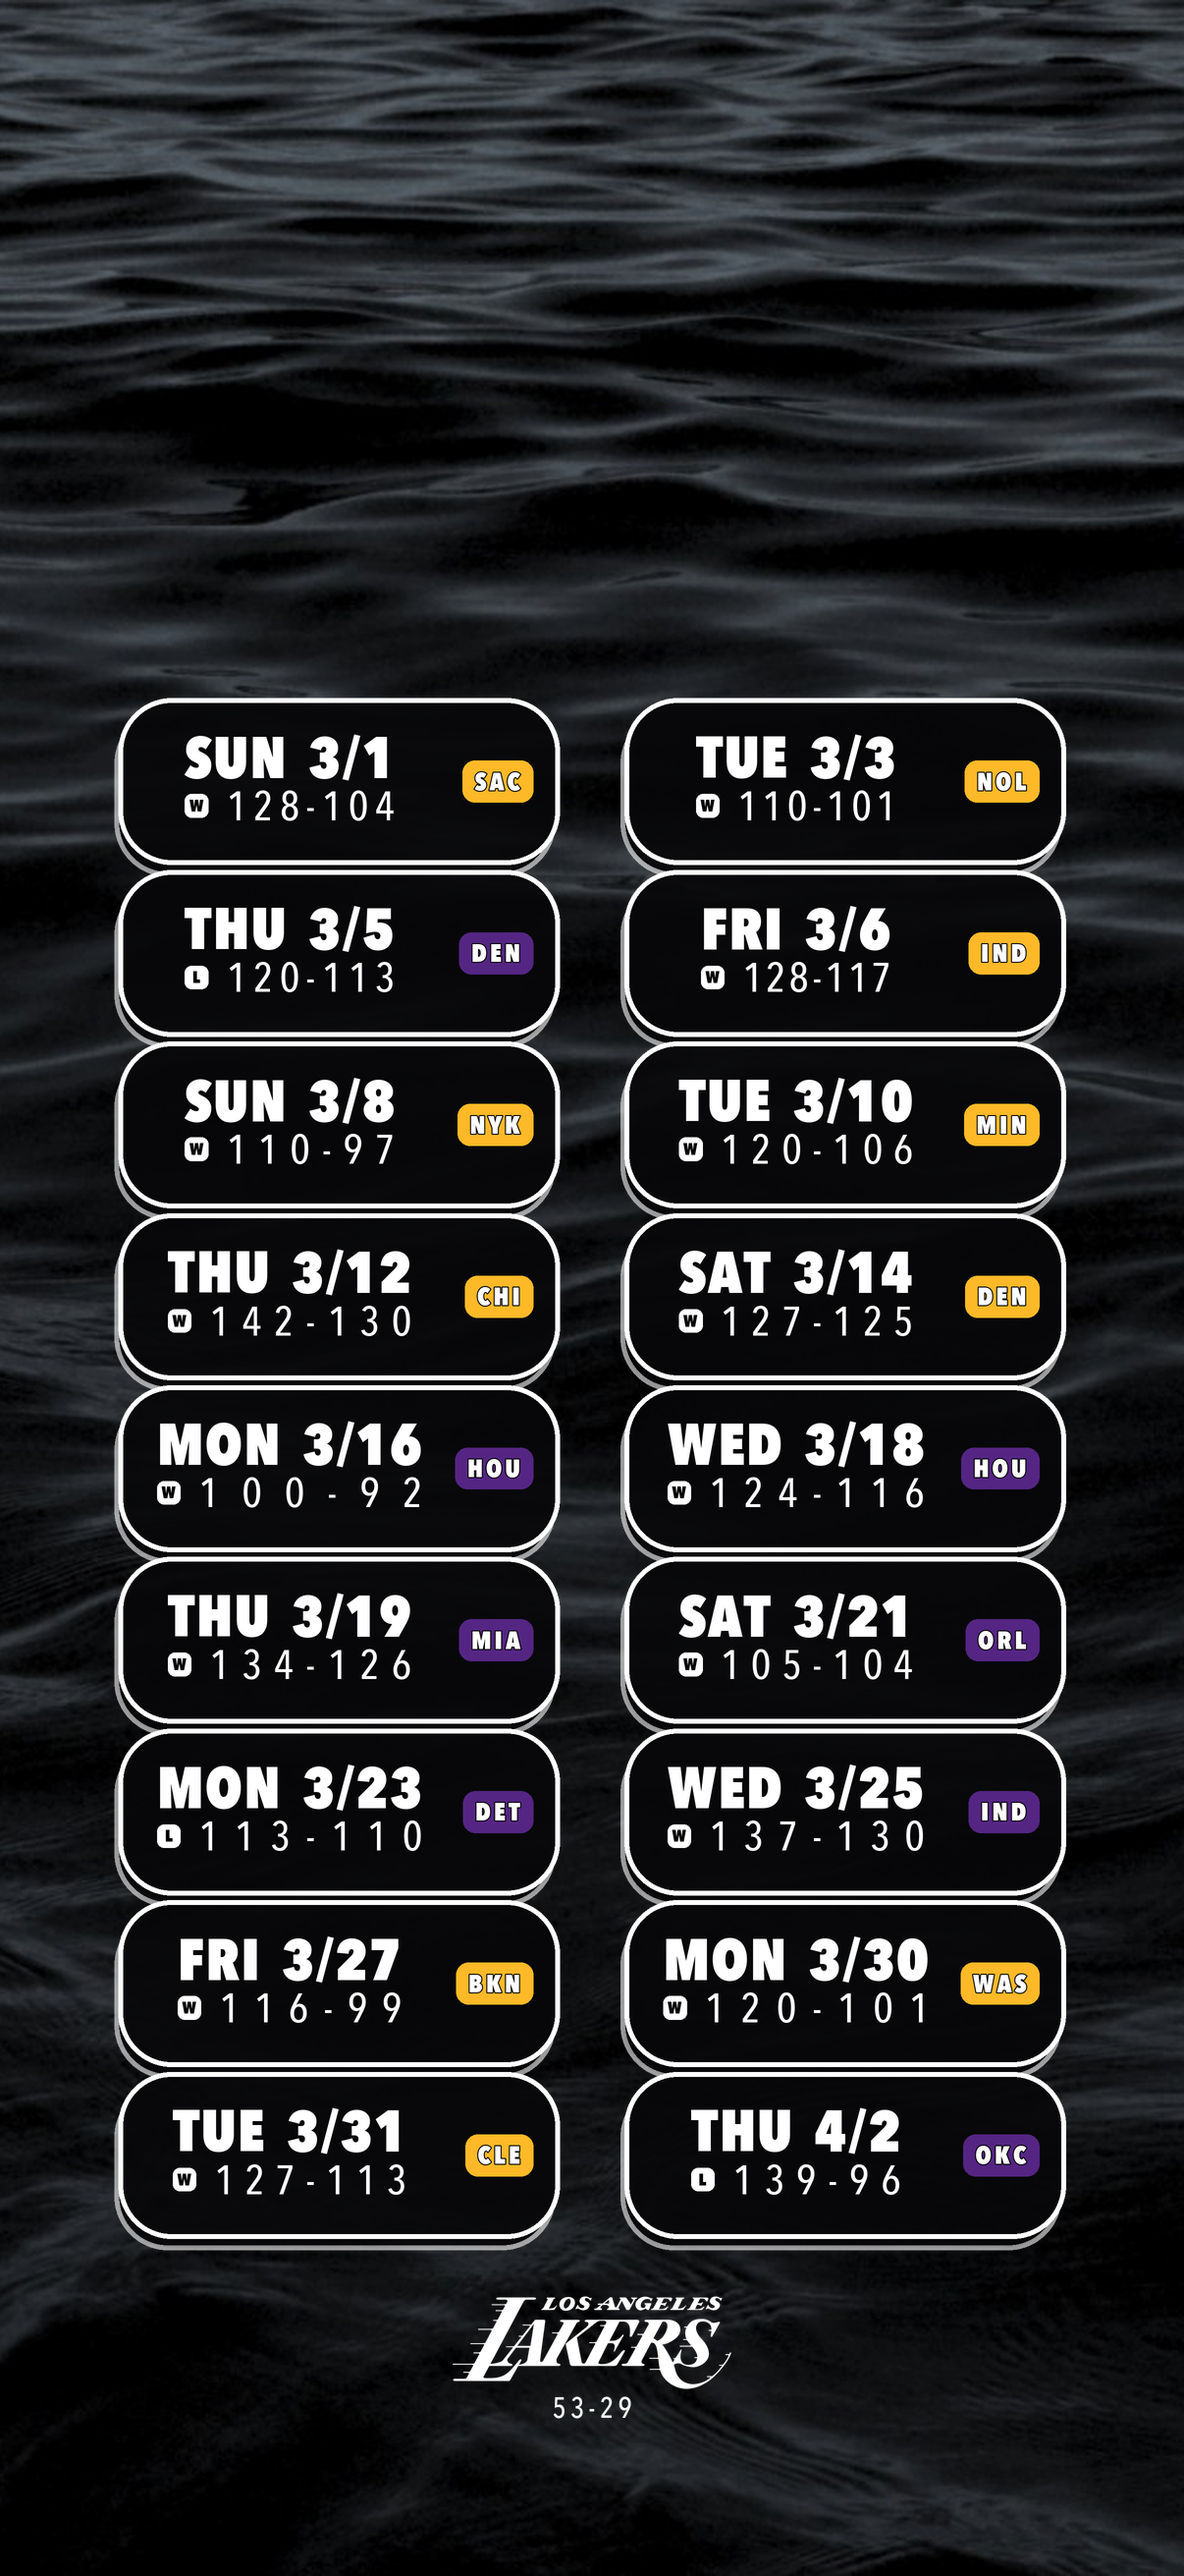
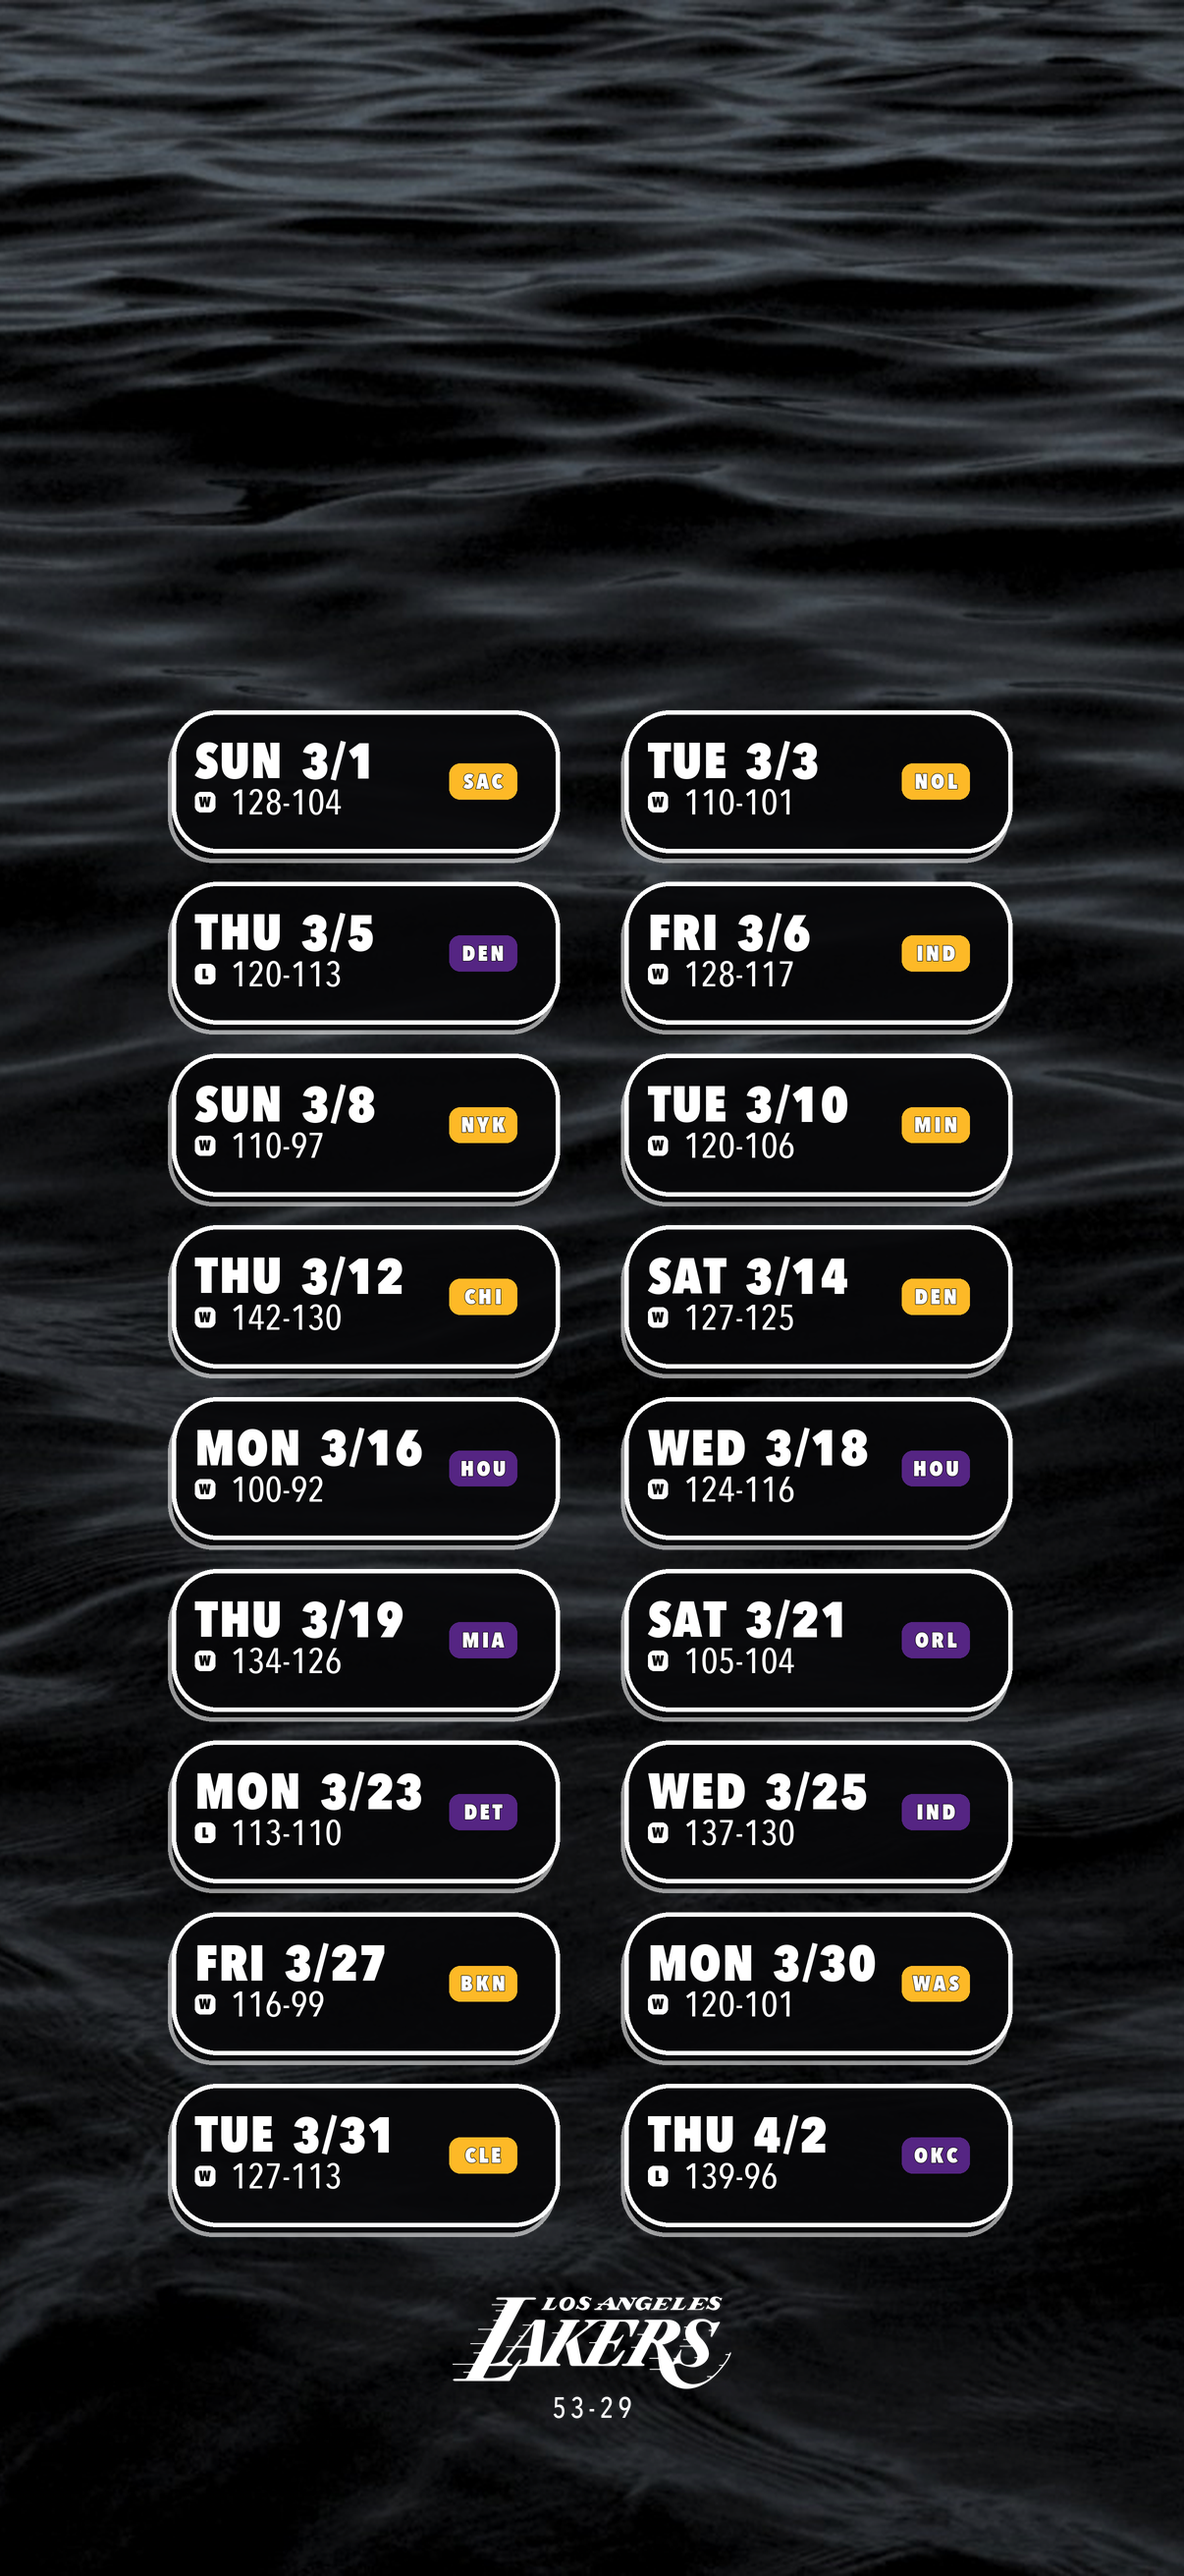
Left-align chip lines; uniform tag width; restore row gaps
Justifying both lines to a shared width was the cause of the odd spacing:
a short line like '2:00 PM' had to crawl to match the date above it, and
it stretched by a different amount depending on whether the game had been
played. Played and unplayed games therefore never matched, which matters
because a mid-month schedule shows both at once.

Both lines now start at the same x and keep their natural spacing, so a
time chip and a score chip are the same size and shape. Tags take one
width per month so they form a column, and sit closer in. Chips are back
to 0.83 of the row pitch so rows no longer touch.

Changed region(s): [[0.5216, 0.2471, 0.9204, 0.8959], [0.092, 0.2471, 0.4909, 0.8959]]

diff --git a/lakerscreen/render.py b/lakerscreen/render.py
@@ -149,8 +149,9 @@ def _justify(c: _Canvas, runs: List[Run], target: float) -> List[Run]:
     return runs
 
 
-def _draw_runs(c: _Canvas, cx: float, cy: float, runs: Sequence[Run]) -> None:
-    x = cx - _runs_width(runs) / 2.0
+def _draw_runs(c: _Canvas, cx: float, cy: float, runs: Sequence[Run],
+               align: str = "center") -> None:
+    x = cx if align == "left" else cx - _runs_width(runs) / 2.0
     for i, r in enumerate(runs):
         if r["kind"] == "text":
             c.text((x, cy), r["text"], r["font"], r["fill"],
@@ -335,8 +336,10 @@ def _draw_chip(c: _Canvas, box, g: Game, cfg: Config, scale: float = 1.0,
         th = h * lay.tag_h
         font = c.font(th * lay.tag_letter)
         tr_px = th * lay.tag_letter * lay.tag_tracking
-        tw = c.text_width(g.opponent, font, tr_px) + th * lay.tag_pad * 2
-        tx1 = x1 - w * lay.pad_x_ratio
+        # Uniform width, sized to the month's widest code, so the tags form a
+        # clean column instead of each hugging its own letters.
+        tw = tag_w if tag_w > 0 else c.text_width(g.opponent, font, tr_px) + th * lay.tag_pad * 2
+        tx1 = x1 - w * lay.tag_right_pad
         tcy = (y0 + y1) / 2.0
         c.rounded_rect((tx1 - tw, tcy - th / 2.0, tx1, tcy + th / 2.0),
                        th * lay.badge_radius,
@@ -377,19 +380,27 @@ def _draw_chip(c: _Canvas, box, g: Game, cfg: Config, scale: float = 1.0,
                         x0 + inset * 1.6 + sw, y1 - inset * 2.2),
                        sw / 2.0, fill=pal.gold if g.is_home else pal.purple)
 
-    # Square the left pair off: both lines get the same width, so their left
-    # and right edges line up.
-    target = min(max(_runs_width(tl), _runs_width(bl)), lw)
-    _draw_runs(c, lcx, ya, _justify(c, list(tl), target))
-    _draw_runs(c, lcx, yb, _justify(c, list(bl), target))
+    if lay.justify_lines:
+        target = min(max(_runs_width(tl), _runs_width(bl)), lw)
+        _draw_runs(c, lcx, ya, _justify(c, list(tl), target))
+        _draw_runs(c, lcx, yb, _justify(c, list(bl), target))
+    else:
+        # Both lines start at the same x and keep their natural spacing.
+        # Stretching them to a common width made a short line like "2:00 PM"
+        # crawl with letter-spacing, and stretched by a different amount
+        # depending on whether the game had been played.
+        _draw_runs(c, x0 + lz0, ya, list(tl), align="left")
+        _draw_runs(c, x0 + lz0, yb, list(bl), align="left")
 
     if tr is None:
-        # Single element on the right: centre it across both lines.
         _draw_runs(c, rcx, (ya + yb) / 2.0, list(br))
-    else:
+    elif lay.justify_lines:
         target = min(max(_runs_width(tr), _runs_width(br)), rw)
         _draw_runs(c, rcx, ya, _justify(c, list(tr), target))
         _draw_runs(c, rcx, yb, _justify(c, list(br), target))
+    else:
+        _draw_runs(c, rcx, ya, list(tr))
+        _draw_runs(c, rcx, yb, list(br))
 
 
 def _draw_footer(c: _Canvas, size, month_key: str, record: Tuple[int, int],

diff --git a/lakerscreen/config.py b/lakerscreen/config.py
@@ -58,13 +58,13 @@ class Layout:
     grid_top: float = 0.2700
     grid_bottom: float = 0.8700
     # Horizontal geometry.
-    side_margin: float = 0.1000         # fraction of width
+    side_margin: float = 0.1450         # fraction of width
     column_gutter: float = 0.0550       # fraction of width
     # Chip proportions.
     max_pitch: float = 0.0744           # row-to-row spacing cap, of image height
     single_col_width: float = 0.4600    # chip width in single-column mode, of image width
-    chip_height_ratio: float = 0.9700    # of the per-row pitch
-    chip_max_height: float = 0.0720     # of image height, caps chips in light months
+    chip_height_ratio: float = 0.8300    # of the per-row pitch
+    chip_max_height: float = 0.0680     # of image height, caps chips in light months
     corner_radius_ratio: float = 0.3200   # of chip height
     border_ratio: float = 0.0300         # of chip height
     stack_dx: float = -0.025            # sticker-stack offset, of chip height
@@ -91,6 +91,8 @@ class Layout:
     tag_letter: float = 0.6000           # letter size, of tag height
     tag_tracking: float = 0.120
     tag_gap: float = 0.0450             # space between text block and tag, of chip width
+    tag_right_pad: float = 0.1100       # tag inset from the chip's right edge
+    justify_lines: bool = False         # stretch both lines to a shared width
     tag_outline: float = 0.000          # white keyline around the tag, of tag height
     tag_text_stroke: float = 0.032      # black keyline on the letters, of letter size
     tag_fill_accent: bool = True        # gold/purple tag + white letters,
